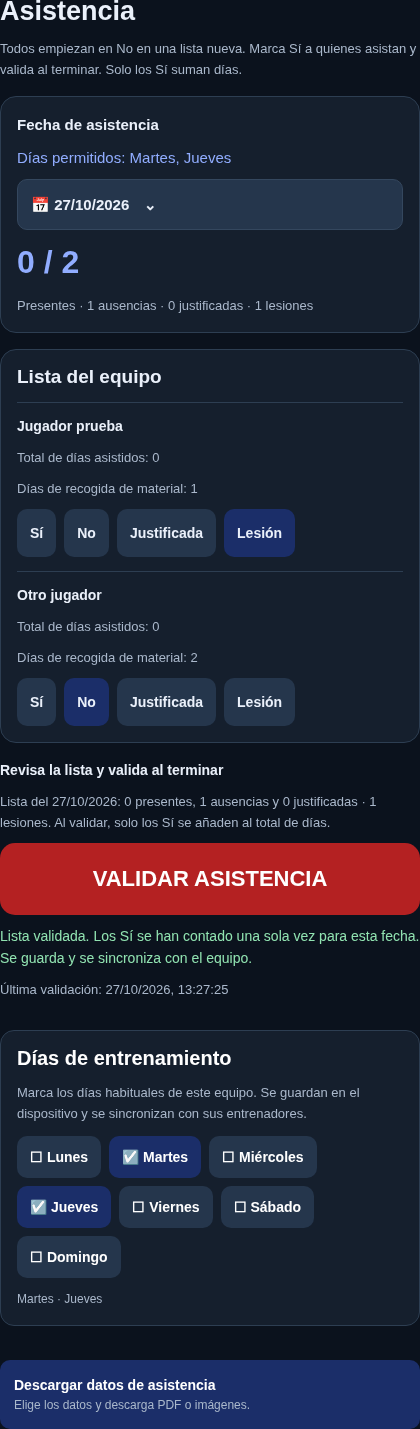
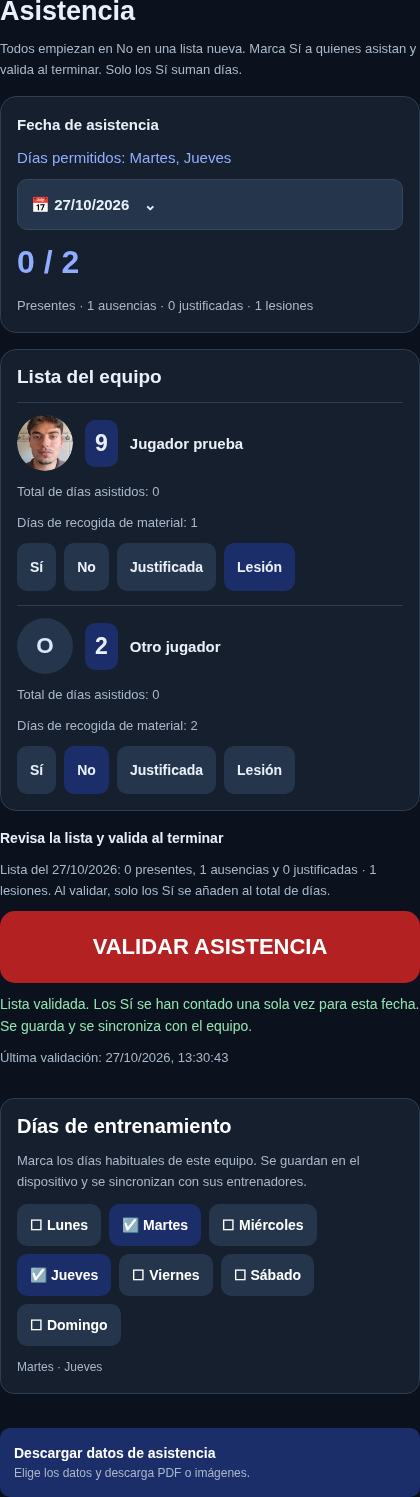
Show shared player photo and number in attendance and material lists

diff --git a/AttendancePanel.js b/AttendancePanel.js
@@ -1,3 +1,4 @@
+import TeamPlayerIdentity from './TeamPlayerIdentity';
 import {materialDates} from './team-participation.cjs';
 import React,{forwardRef} from 'react';
 import {View,Text,Pressable} from 'react-native';
@@ -7,4 +8,4 @@ import RosterExport from './RosterExport';
 import {getPlayerPhoto} from './player-photos';
 import {allowedTrainingDate,attendanceValue,recordAttendance,validateAttendance,attendanceValidated,attendedDates} from './training-dates.cjs';
 const text={color:'#eaf0fa',fontSize:14,lineHeight:22},muted={color:'#aab8cb',fontSize:13,lineHeight:21},card={padding:16,borderRadius:16,backgroundColor:'#151f2d',borderWidth:1,borderColor:'#2d3e52',gap:14};
-export default forwardRef(function AttendancePanel({data,teamId,date,onDateChange,onUpdate,onError=()=>{}},ref){const enabled=allowedTrainingDate(date,data.trainingDays),players=data.players||[],record=data.attendance?.[date],present=players.filter(p=>attendanceValue(record,p.id)==='Sí').length,absent=players.filter(p=>attendanceValue(record,p.id)==='No').length,justified=players.filter(p=>attendanceValue(record,p.id)==='Justificada').length,injured=players.filter(p=>attendanceValue(record,p.id)==='Lesión').length,validated=attendanceValidated(data,date);function update(work){try{onError('');onUpdate(work)}catch(e){onError(e.message)}}return <View style={{gap:16}}><Text style={{...text,fontSize:27,fontWeight:'900'}}>Asistencia</Text><Text style={muted}>Todos empiezan en No en una lista nueva. Marca Sí a quienes asistan y valida al terminar. Solo los Sí suman días.</Text><View style={card}><TrainingDatePicker ref={ref} value={date} onChange={onDateChange} selected={data.trainingDays||{}}/><Text style={{color:'#91adff',fontSize:32,fontWeight:'900'}}>{present} / {players.length}</Text><Text style={muted}>Presentes · {absent} ausencias · {justified} justificadas · {injured} lesiones</Text></View><View style={card}><Text style={{...text,fontSize:19,fontWeight:'800'}}>Lista del equipo</Text>{!players.length&&<Text style={muted}>No hay jugadores disponibles en la plantilla del equipo.</Text>}{players.map(p=><View key={p.id} style={{borderTopWidth:1,borderColor:'#2d3e52',paddingTop:12,gap:10}}><Text style={{...text,fontWeight:'800'}}>{p.name}</Text><Text style={muted}>Total de días asistidos: {attendedDates(data,p.id).length}</Text>{materialDates(data,p).length>0&&<Text style={muted}>Días de recogida de material: {materialDates(data,p).length}</Text>}<View style={{flexDirection:'row',flexWrap:'wrap',gap:8}}>{['Sí','No','Justificada','Lesión'].map(value=><Pressable key={value} accessibilityRole="radio" accessibilityLabel={p.name+' · '+value} accessibilityState={{checked:attendanceValue(record,p.id)===value,disabled:!enabled}} aria-checked={attendanceValue(record,p.id)===value} disabled={!enabled} onPress={()=>update(old=>recordAttendance(old,date,p.id,value))} style={{padding:13,borderRadius:10,backgroundColor:attendanceValue(record,p.id)===value?'#1b2e69':'#25364c',opacity:enabled?1:.35}}><Text style={{...text,fontWeight:'700'}}>{value}</Text></Pressable>)}</View></View>)}</View><View style={{gap:10}}><Text style={{...text,fontWeight:'800'}}>Revisa la lista y valida al terminar</Text><Text style={muted}>Lista del {date.split('-').reverse().join('/')}: {present} presentes, {absent} ausencias y {justified} justificadas · {injured} lesiones. Al validar, solo los Sí se añaden al total de días.</Text><Pressable accessibilityRole="button" accessibilityLabel="VALIDAR ASISTENCIA" accessibilityState={{disabled:!enabled||!players.length}} disabled={!enabled||!players.length} onPress={()=>update(old=>validateAttendance(old,date))} style={{paddingVertical:23,paddingHorizontal:16,borderRadius:15,backgroundColor:enabled&&players.length?'#b42122':'#25364c',opacity:enabled&&players.length?1:.4,alignItems:'center'}}><Text style={{color:'#fff',fontSize:22,fontWeight:'900',textAlign:'center'}}>VALIDAR ASISTENCIA</Text></Pressable><Text style={{...text,color:validated?'#91e3b1':'#f6d46c'}}>{validated?'Lista validada. Los Sí se han contado una sola vez para esta fecha. Se guarda y se sincroniza con el equipo.':'Lista pendiente de validar. Repásala y pulsa el botón cuando esté completa.'}</Text>{validated&&<Text style={muted}>Última validación: {new Date(data.attendanceValidation[date].validatedAt).toLocaleString('es-ES')}</Text>}</View><TrainingDays selected={data.trainingDays||{}} onToggle={day=>update(old=>({...old,trainingDays:{...(old.trainingDays||{}),[day]:!old.trainingDays?.[day]}}))}/><RosterExport enabled={!!teamId} mode="attendance" players={players} teamId={teamId} title="Asistencia del equipo" details={data.playerDetails||{}} attendanceData={data} attendanceDate={date} photos={Object.fromEntries(players.map(p=>[p.id,getPlayerPhoto(p.federationId||p.id)]))}/></View>});
+export default forwardRef(function AttendancePanel({data,teamId,date,onDateChange,onUpdate,onError=()=>{}},ref){const enabled=allowedTrainingDate(date,data.trainingDays),players=data.players||[],record=data.attendance?.[date],present=players.filter(p=>attendanceValue(record,p.id)==='Sí').length,absent=players.filter(p=>attendanceValue(record,p.id)==='No').length,justified=players.filter(p=>attendanceValue(record,p.id)==='Justificada').length,injured=players.filter(p=>attendanceValue(record,p.id)==='Lesión').length,validated=attendanceValidated(data,date);function update(work){try{onError('');onUpdate(work)}catch(e){onError(e.message)}}return <View style={{gap:16}}><Text style={{...text,fontSize:27,fontWeight:'900'}}>Asistencia</Text><Text style={muted}>Todos empiezan en No en una lista nueva. Marca Sí a quienes asistan y valida al terminar. Solo los Sí suman días.</Text><View style={card}><TrainingDatePicker ref={ref} value={date} onChange={onDateChange} selected={data.trainingDays||{}}/><Text style={{color:'#91adff',fontSize:32,fontWeight:'900'}}>{present} / {players.length}</Text><Text style={muted}>Presentes · {absent} ausencias · {justified} justificadas · {injured} lesiones</Text></View><View style={card}><Text style={{...text,fontSize:19,fontWeight:'800'}}>Lista del equipo</Text>{!players.length&&<Text style={muted}>No hay jugadores disponibles en la plantilla del equipo.</Text>}{players.map(p=><View key={p.id} style={{borderTopWidth:1,borderColor:'#2d3e52',paddingTop:12,gap:10}}><TeamPlayerIdentity player={p} teamId={teamId} details={data.playerDetails||{}}/><Text style={muted}>Total de días asistidos: {attendedDates(data,p.id).length}</Text>{materialDates(data,p).length>0&&<Text style={muted}>Días de recogida de material: {materialDates(data,p).length}</Text>}<View style={{flexDirection:'row',flexWrap:'wrap',gap:8}}>{['Sí','No','Justificada','Lesión'].map(value=><Pressable key={value} accessibilityRole="radio" accessibilityLabel={p.name+' · '+value} accessibilityState={{checked:attendanceValue(record,p.id)===value,disabled:!enabled}} aria-checked={attendanceValue(record,p.id)===value} disabled={!enabled} onPress={()=>update(old=>recordAttendance(old,date,p.id,value))} style={{padding:13,borderRadius:10,backgroundColor:attendanceValue(record,p.id)===value?'#1b2e69':'#25364c',opacity:enabled?1:.35}}><Text style={{...text,fontWeight:'700'}}>{value}</Text></Pressable>)}</View></View>)}</View><View style={{gap:10}}><Text style={{...text,fontWeight:'800'}}>Revisa la lista y valida al terminar</Text><Text style={muted}>Lista del {date.split('-').reverse().join('/')}: {present} presentes, {absent} ausencias y {justified} justificadas · {injured} lesiones. Al validar, solo los Sí se añaden al total de días.</Text><Pressable accessibilityRole="button" accessibilityLabel="VALIDAR ASISTENCIA" accessibilityState={{disabled:!enabled||!players.length}} disabled={!enabled||!players.length} onPress={()=>update(old=>validateAttendance(old,date))} style={{paddingVertical:23,paddingHorizontal:16,borderRadius:15,backgroundColor:enabled&&players.length?'#b42122':'#25364c',opacity:enabled&&players.length?1:.4,alignItems:'center'}}><Text style={{color:'#fff',fontSize:22,fontWeight:'900',textAlign:'center'}}>VALIDAR ASISTENCIA</Text></Pressable><Text style={{...text,color:validated?'#91e3b1':'#f6d46c'}}>{validated?'Lista validada. Los Sí se han contado una sola vez para esta fecha. Se guarda y se sincroniza con el equipo.':'Lista pendiente de validar. Repásala y pulsa el botón cuando esté completa.'}</Text>{validated&&<Text style={muted}>Última validación: {new Date(data.attendanceValidation[date].validatedAt).toLocaleString('es-ES')}</Text>}</View><TrainingDays selected={data.trainingDays||{}} onToggle={day=>update(old=>({...old,trainingDays:{...(old.trainingDays||{}),[day]:!old.trainingDays?.[day]}}))}/><RosterExport enabled={!!teamId} mode="attendance" players={players} teamId={teamId} title="Asistencia del equipo" details={data.playerDetails||{}} attendanceData={data} attendanceDate={date} photos={Object.fromEntries(players.map(p=>[p.id,getPlayerPhoto(p.federationId||p.id)]))}/></View>});

diff --git a/MaterialPickupPanel.js b/MaterialPickupPanel.js
@@ -1,10 +1,9 @@
 import React,{useState} from 'react';
 import {View,Text,Pressable} from 'react-native';
-import PlayerPortrait from './PlayerPortrait';
+import TeamPlayerIdentity from './TeamPlayerIdentity';
 import TrainingDatePicker from './TrainingDatePicker';
 import {allowedTrainingDate} from './training-dates.cjs';
 import {materialDates} from './team-participation.cjs';
 import {pickupSelected,validatePickups} from './material-pickup.cjs';
-import seed from './players-seed.json';
 const text={color:'#eaf0fa',fontSize:15,lineHeight:23},muted={color:'#aab8cb',fontSize:13,lineHeight:21};
-export default function MaterialPickupPanel({data,teamId,onUpdate,onError=()=>{}}){const [date,setDate]=useState(new Date().toISOString().slice(0,10)),[changes,setChanges]=useState({}),[saved,setSaved]=useState(false),enabled=allowedTrainingDate(date,data.trainingDays),players=data.players||[],official=seed.teams.find(t=>String(t.id)===String(teamId))?.players||[];const selected=p=>Object.hasOwn(changes,p.id)?changes[p.id]:pickupSelected(data,date,p);return <View style={{gap:16}}><Text style={{...text,fontSize:27,fontWeight:'900'}}>Recogida de material</Text><Text style={muted}>Marca Sí a los jugadores que han recogido material y valida la lista. En una fecha nueva todos empiezan en No. Cada día cuenta una sola vez.</Text><TrainingDatePicker value={date} purpose="recogida de material" onChange={value=>{setDate(value);setChanges({});setSaved(false)}} selected={data.trainingDays||{}}/><Text style={{...text,fontWeight:'800'}}>Lista del equipo · {players.filter(selected).length} seleccionados</Text>{!players.length&&<Text style={muted}>No hay jugadores disponibles en la plantilla.</Text>}{players.map(p=>{const info=official.find(o=>String(o.id)===String(p.federationId||p.id))||p,detail=data.playerDetails?.[p.federationId||p.id]||data.playerDetails?.[p.id]||{};return <View key={p.id} style={{padding:16,borderRadius:18,backgroundColor:'#151f2d',borderWidth:1,borderColor:'#2d3e52',gap:12}}><View style={{flexDirection:'row',alignItems:'center',gap:12}}><PlayerPortrait playerId={p.federationId||p.id} name={p.name} teamId={teamId}/><Text style={{...text,padding:10,borderRadius:10,backgroundColor:'#1b2e69',fontSize:23,fontWeight:'900'}}>{info.number??'—'}</Text><View style={{flex:1}}><Text style={{...text,fontWeight:'800'}}>{detail.alias||p.name}</Text>{!!detail.alias&&<Text style={muted}>{p.name}</Text>}</View></View><Text style={muted}>Total de días de recogida: {materialDates(data,p).length}</Text><View style={{flexDirection:'row',gap:10}}>{[true,false].map(value=><Pressable key={String(value)} accessibilityRole="radio" accessibilityLabel={p.name+' · '+(value?'Sí':'No')} accessibilityState={{checked:selected(p)===value,disabled:!enabled}} aria-checked={selected(p)===value} disabled={!enabled} onPress={()=>{setChanges(old=>({...old,[p.id]:value}));setSaved(false)}} style={{padding:14,borderRadius:10,backgroundColor:selected(p)===value?'#1b2e69':'#25364c',opacity:enabled?1:.35}}><Text style={{...text,fontWeight:'800'}}>{value?'Sí':'No'}</Text></Pressable>)}</View></View>})}<Pressable accessibilityRole="button" accessibilityLabel="VALIDAR RECOGIDA DE MATERIAL" disabled={!enabled||!players.length} accessibilityState={{disabled:!enabled||!players.length}} onPress={()=>{try{onError('');onUpdate(old=>validatePickups(old,date,changes));setChanges({});setSaved(true)}catch(e){onError(e.message)}}} style={{padding:23,borderRadius:15,backgroundColor:'#b42122',opacity:enabled&&players.length?1:.35}}><Text style={{...text,fontSize:21,fontWeight:'900',textAlign:'center'}}>VALIDAR RECOGIDA DE MATERIAL</Text></Pressable><Text style={muted}>{saved?'Lista validada. Los días se guardan y se sincronizan con los entrenadores del equipo.':'Los totales y el ranking se actualizan al validar. Para corregir una recogida, marca No y vuelve a validar.'}</Text></View>}
+export default function MaterialPickupPanel({data,teamId,onUpdate,onError=()=>{}}){const [date,setDate]=useState(new Date().toISOString().slice(0,10)),[changes,setChanges]=useState({}),[saved,setSaved]=useState(false),enabled=allowedTrainingDate(date,data.trainingDays),players=data.players||[];const selected=p=>Object.hasOwn(changes,p.id)?changes[p.id]:pickupSelected(data,date,p);return <View style={{gap:16}}><Text style={{...text,fontSize:27,fontWeight:'900'}}>Recogida de material</Text><Text style={muted}>Marca Sí a los jugadores que han recogido material y valida la lista. En una fecha nueva todos empiezan en No. Cada día cuenta una sola vez.</Text><TrainingDatePicker value={date} purpose="recogida de material" onChange={value=>{setDate(value);setChanges({});setSaved(false)}} selected={data.trainingDays||{}}/><Text style={{...text,fontWeight:'800'}}>Lista del equipo · {players.filter(selected).length} seleccionados</Text>{!players.length&&<Text style={muted}>No hay jugadores disponibles en la plantilla.</Text>}{players.map(p=>{return <View key={p.id} style={{padding:16,borderRadius:18,backgroundColor:'#151f2d',borderWidth:1,borderColor:'#2d3e52',gap:12}}><TeamPlayerIdentity player={p} teamId={teamId} details={data.playerDetails||{}}/><Text style={muted}>Total de días de recogida: {materialDates(data,p).length}</Text><View style={{flexDirection:'row',gap:10}}>{[true,false].map(value=><Pressable key={String(value)} accessibilityRole="radio" accessibilityLabel={p.name+' · '+(value?'Sí':'No')} accessibilityState={{checked:selected(p)===value,disabled:!enabled}} aria-checked={selected(p)===value} disabled={!enabled} onPress={()=>{setChanges(old=>({...old,[p.id]:value}));setSaved(false)}} style={{padding:14,borderRadius:10,backgroundColor:selected(p)===value?'#1b2e69':'#25364c',opacity:enabled?1:.35}}><Text style={{...text,fontWeight:'800'}}>{value?'Sí':'No'}</Text></Pressable>)}</View></View>})}<Pressable accessibilityRole="button" accessibilityLabel="VALIDAR RECOGIDA DE MATERIAL" disabled={!enabled||!players.length} accessibilityState={{disabled:!enabled||!players.length}} onPress={()=>{try{onError('');onUpdate(old=>validatePickups(old,date,changes));setChanges({});setSaved(true)}catch(e){onError(e.message)}}} style={{padding:23,borderRadius:15,backgroundColor:'#b42122',opacity:enabled&&players.length?1:.35}}><Text style={{...text,fontSize:21,fontWeight:'900',textAlign:'center'}}>VALIDAR RECOGIDA DE MATERIAL</Text></Pressable><Text style={muted}>{saved?'Lista validada. Los días se guardan y se sincronizan con los entrenadores del equipo.':'Los totales y el ranking se actualizan al validar. Para corregir una recogida, marca No y vuelve a validar.'}</Text></View>}

diff --git a/tutorial-images.js b/tutorial-images.js
@@ -1,1 +1,1 @@
-export default {"inicio":{source:require('./assets/tutorial/inicio.png'),aspectRatio:860/1900},"resultados":{source:require('./assets/tutorial/resultados.png'),aspectRatio:412/915},"plantilla":{source:require('./assets/tutorial/plantilla.png'),aspectRatio:860/1860},"minutos":{source:require('./assets/tutorial/minutos.png'),aspectRatio:430/1050},"exportar":{source:require('./assets/tutorial/exportar.png'),aspectRatio:860/1860},"presentacion":{source:require('./assets/tutorial/presentacion.png'),aspectRatio:430/1000},"material":{source:require('./assets/tutorial/material.png'),aspectRatio:420/860},"asistencia":{source:require('./assets/tutorial/asistencia.png'),aspectRatio:420/1429},"calendario-asistencia":{source:require('./assets/tutorial/calendario-asistencia.png'),aspectRatio:860/2000},"ranking-participacion":{source:require('./assets/tutorial/ranking-participacion.png'),aspectRatio:860/1082}};
+export default {"inicio":{source:require('./assets/tutorial/inicio.png'),aspectRatio:860/1900},"resultados":{source:require('./assets/tutorial/resultados.png'),aspectRatio:412/915},"plantilla":{source:require('./assets/tutorial/plantilla.png'),aspectRatio:860/1860},"minutos":{source:require('./assets/tutorial/minutos.png'),aspectRatio:430/1050},"exportar":{source:require('./assets/tutorial/exportar.png'),aspectRatio:860/1860},"presentacion":{source:require('./assets/tutorial/presentacion.png'),aspectRatio:430/1000},"material":{source:require('./assets/tutorial/material.png'),aspectRatio:420/876},"asistencia":{source:require('./assets/tutorial/asistencia.png'),aspectRatio:420/1497},"calendario-asistencia":{source:require('./assets/tutorial/calendario-asistencia.png'),aspectRatio:860/2000},"ranking-participacion":{source:require('./assets/tutorial/ranking-participacion.png'),aspectRatio:860/1082}};

diff --git a/TeamPlayerIdentity.js b/TeamPlayerIdentity.js
@@ -1,0 +1,14 @@
+import React from 'react';
+import {View,Text} from 'react-native';
+import PlayerPortrait from './PlayerPortrait';
+import seed from './players-seed.json';
+
+export default function TeamPlayerIdentity({player,teamId,details={}}){
+ const official=seed.teams.find(t=>String(t.id)===String(teamId))?.players.find(p=>String(p.id)===String(player.federationId||player.id));
+ const detail=details[player.federationId||player.id]||details[player.id]||{};
+ return <View style={{flexDirection:'row',alignItems:'center',gap:12}}>
+  <PlayerPortrait playerId={player.federationId||player.id} name={player.name} teamId={teamId} size={56}/>
+  <Text accessibilityLabel={'Dorsal '+(official?.number??player.number??'no disponible')} style={{color:'#eaf0fa',padding:10,borderRadius:10,backgroundColor:'#1b2e69',fontSize:23,fontWeight:'900'}}>{official?.number??player.number??'—'}</Text>
+  <View style={{flex:1}}><Text style={{color:'#eaf0fa',fontSize:15,lineHeight:23,fontWeight:'800'}}>{detail.alias||player.name}</Text>{!!detail.alias&&<Text style={{color:'#aab8cb',fontSize:13,lineHeight:21}}>{player.name}</Text>}</View>
+ </View>;
+}

diff --git a/ASISTENCIA-Y-PARTICIPACION.md b/ASISTENCIA-Y-PARTICIPACION.md
@@ -11,3 +11,5 @@ Ranking de Plantilla añade Asistencia y Recogida de material para entrenadores.
 Las funciones se guardan y sincronizan con el mecanismo existente de teamWorkspaces, sin ampliar permisos ni servicios públicos. Los tops privados no se añaden al ranking de cuentas de jugador que no tienen acceso al espacio de entrenadores. Tutorial actualizado con imágenes de asistencia, calendario y ranking; la imagen de Material muestra la lista de jugadores y validación. Lesión se conserva también en exportación y no suma asistencias.
 
 Validación:148 pruebas; calendario y escritura restringida, No predeterminado, validaciones repetidas, conservación histórica, identificadores antiguos, días de material únicos y exportación. Playwright comprueba fechas bloqueadas, radio No seleccionado, selección Sí sin sumar antes de confirmar, revalidar sin duplicación, corrección, ambos tops, recogida vinculada, calendario tras cambiar configuración y PDF descargado. pdfinfo confirma asistencia de una página. No se alteran registros de usuarios reales durante pruebas.
+
+TeamPlayerIdentity comparte la cabecera foto (56 px), dorsal y nombre/alias en Asistencia y Material. Reutiliza PlayerPortrait con foto disponible por ID federativo o nombre/equipo; sin foto muestra inicial, sin inventar retratos.
